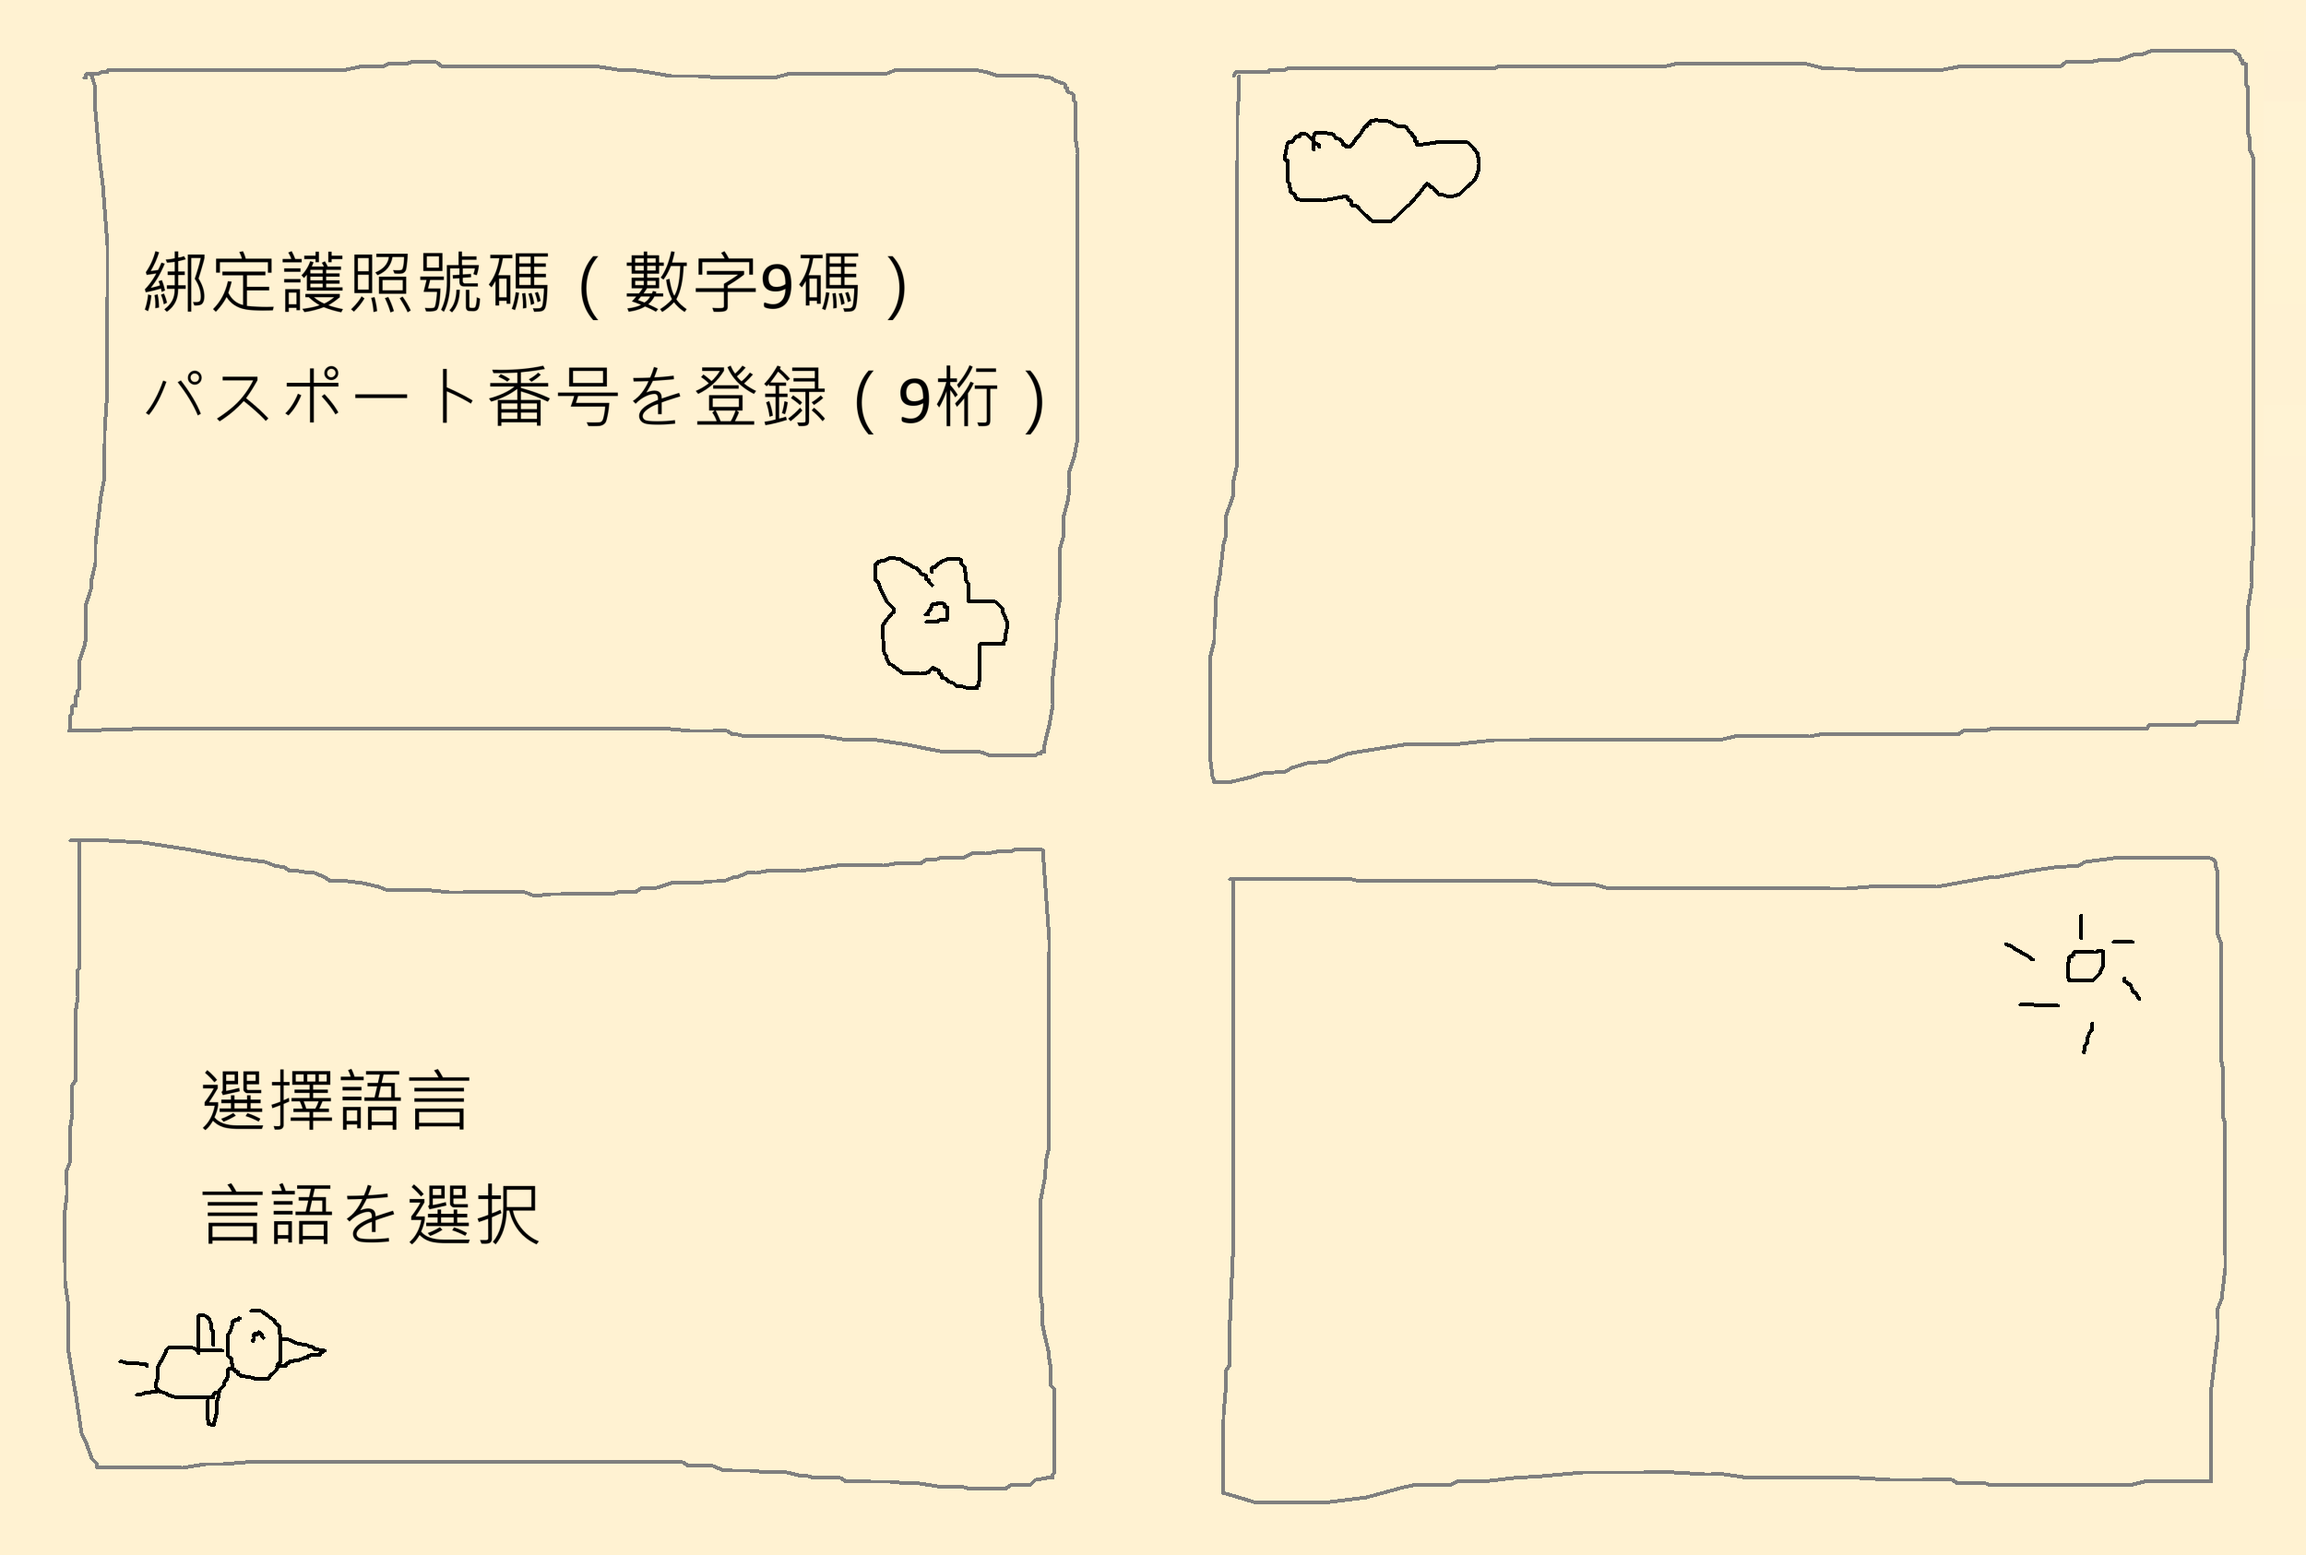
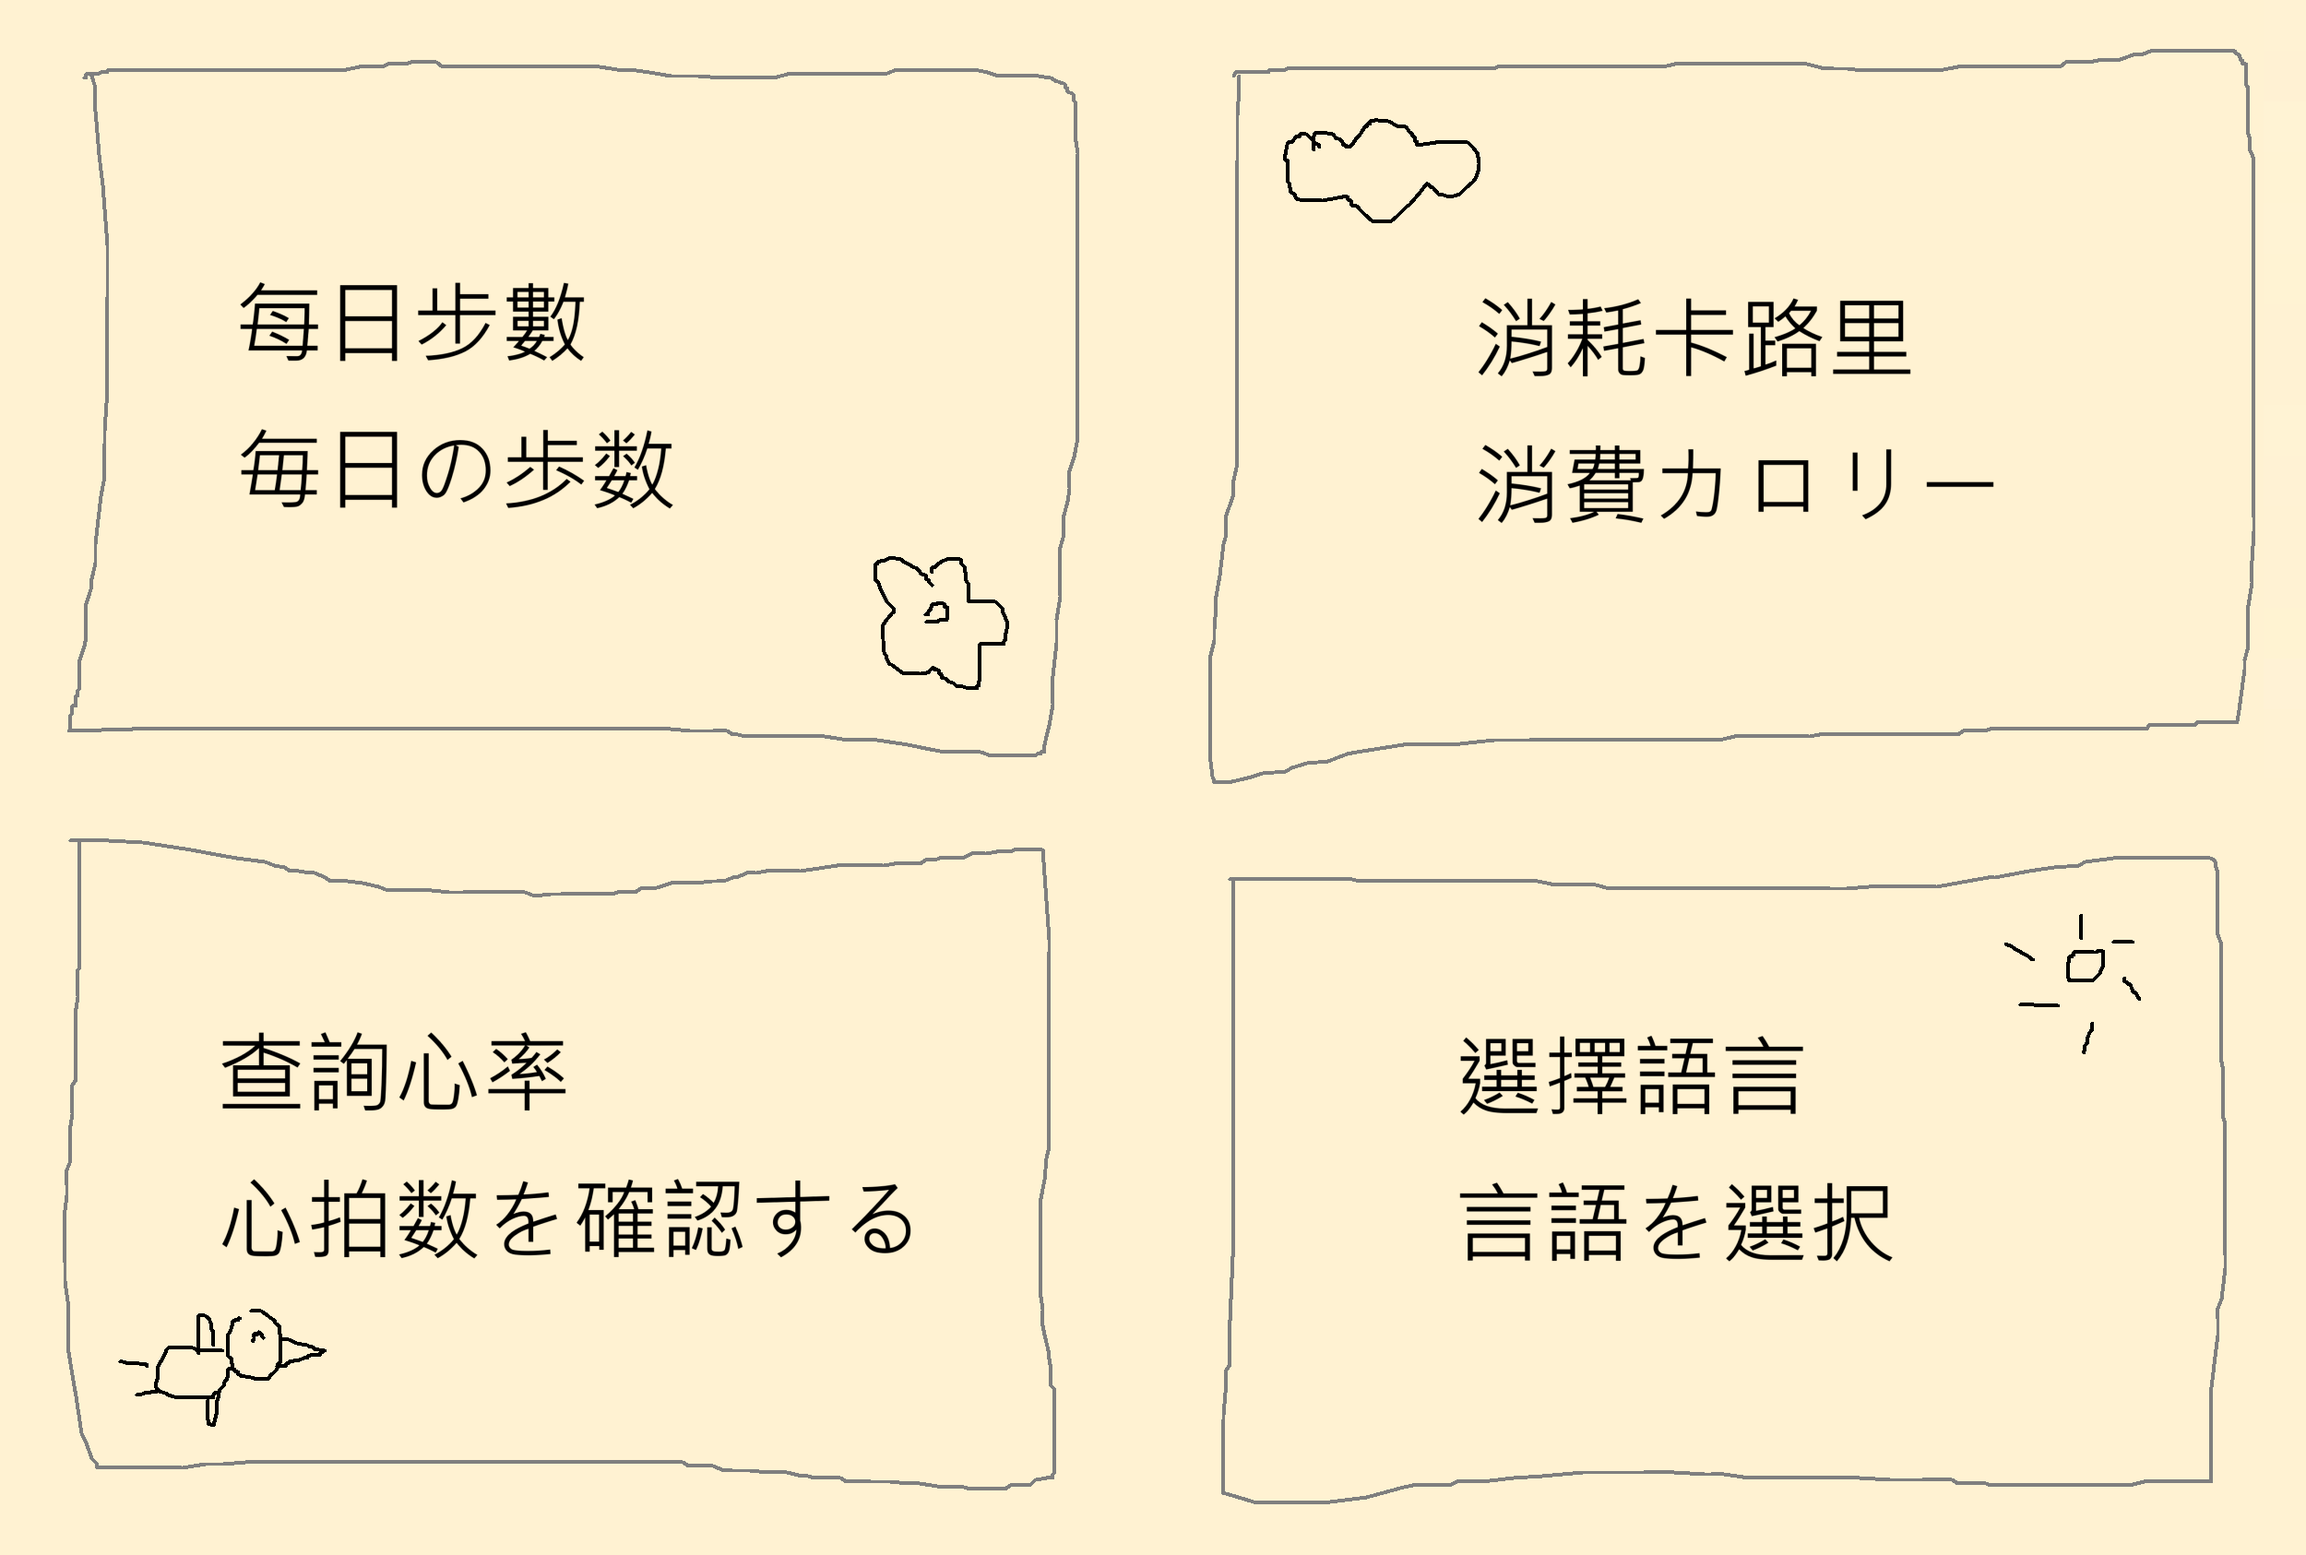
richmenu update

diff --git a/richmenu_setup.py b/richmenu_setup.py
@@ -22,13 +22,13 @@ try:
         chat_bar_text="📋 開啟主選單",
         areas=[
             RichMenuArea(bounds=RichMenuBounds(x=0, y=0, width=1250, height=843),
-                        action=MessageAction(label="我要綁定", text="我要綁定")),
+                        action=MessageAction(label="每日步數", text="每日步數")),
             RichMenuArea(bounds=RichMenuBounds(x=1250, y=0, width=1250, height=843),
-                        action=MessageAction(label="選擇語言", text="選擇語言")),
+                        action=MessageAction(label="消耗卡路里", text="消耗卡路里")),
             RichMenuArea(bounds=RichMenuBounds(x=0, y=843, width=1250, height=843),
-                        action=MessageAction(label="查詢卡路里", text="查詢卡路里")),
+                        action=MessageAction(label="查詢心率", text="查詢心率")),
             RichMenuArea(bounds=RichMenuBounds(x=1250, y=843, width=1250, height=843),
-                        action=MessageAction(label="教學", text="教學")),
+                        action=MessageAction(label="選擇語言", text="選擇語言")),
         ]
     )
 
